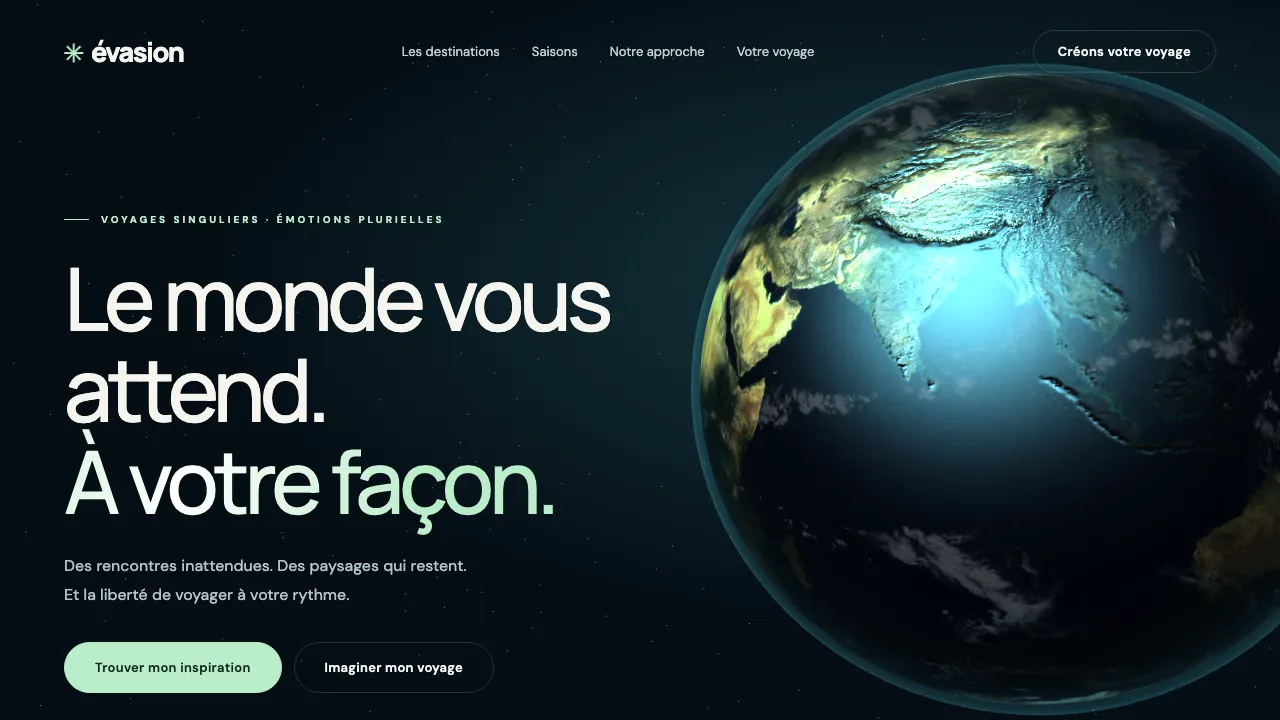
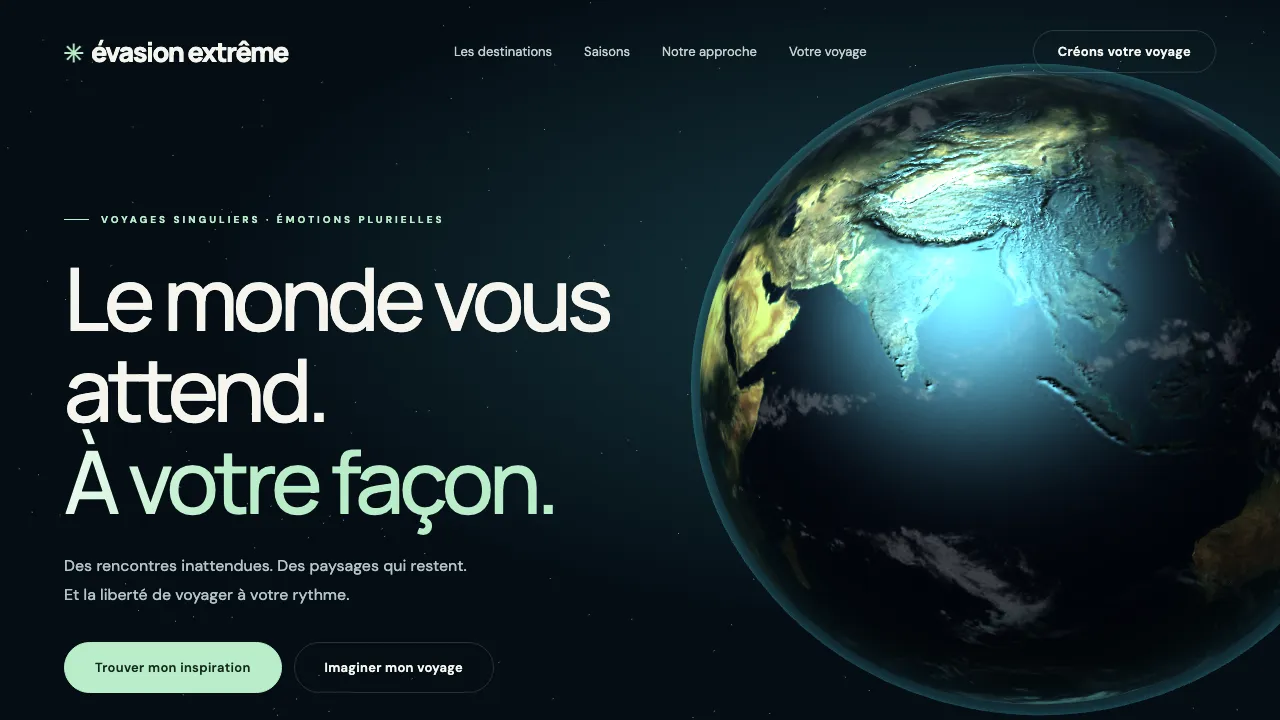
Projets : renommage d'Évasion en Évasion Extrême (page détail, carte, aperçus)

diff --git a/template/evasion.html b/template/evasion.html
@@ -6,8 +6,8 @@
   <link rel="icon" href="../assets/brand/favicon.svg" type="image/svg+xml">
   <link rel="icon" href="../assets/brand/favicon-32.png" sizes="32x32" type="image/png">
   <link rel="apple-touch-icon" href="../assets/brand/apple-touch-icon-180.png">
-  <title>Projet — Évasion — voyages sur mesure | Virtuos Studio</title>
-  <meta name="description" content="Étude de cas Évasion : site de voyages sur mesure avec planète 3D, destinations filtrables et carnet d’envies à télécharger. Projet de démonstration." />
+  <title>Projet — Évasion Extrême — voyages sur mesure | Virtuos Studio</title>
+  <meta name="description" content="Étude de cas Évasion Extrême : site de voyages sur mesure avec planète 3D, destinations filtrables et carnet d’envies à télécharger. Projet de démonstration." />
   <link rel="canonical" href="https://virtuos.life/template/evasion.html" />
   <link href="../assets/fonts/space-grotesk.css" rel="stylesheet">
   <link rel="stylesheet" href="../assets/vendor/lenis.css" />
@@ -19,7 +19,7 @@
     "itemListElement": [
       {"@type": "ListItem", "position": 1, "name": "Accueil", "item": "https://virtuos.life/"},
       {"@type": "ListItem", "position": 2, "name": "Projets", "item": "https://virtuos.life/projets.html"},
-      {"@type": "ListItem", "position": 3, "name": "Évasion — voyages sur mesure", "item": "https://virtuos.life/template/evasion.html"}
+      {"@type": "ListItem", "position": 3, "name": "Évasion Extrême — voyages sur mesure", "item": "https://virtuos.life/template/evasion.html"}
     ]
   }
   </script>
@@ -27,8 +27,8 @@
   {
     "@context": "https://schema.org",
     "@type": "CreativeWork",
-    "name": "Évasion — voyages sur mesure",
-    "description": "Étude de cas Évasion : site de voyages sur mesure avec planète 3D, destinations filtrables et carnet d’envies à télécharger. Projet de démonstration.",
+    "name": "Évasion Extrême — voyages sur mesure",
+    "description": "Étude de cas Évasion Extrême : site de voyages sur mesure avec planète 3D, destinations filtrables et carnet d’envies à télécharger. Projet de démonstration.",
     "url": "https://virtuos.life/template/evasion.html",
     "inLanguage": "fr",
     "creator": {
@@ -50,9 +50,9 @@
   <script src="../assets/js/promo.js"></script>
   <main class="section template-hero">
     <div class="container">
-      <div class="breadcrumbs"><a href="../">Accueil</a> / Projets / Évasion — voyages sur mesure</div>
+      <div class="breadcrumbs"><a href="../">Accueil</a> / Projets / Évasion Extrême — voyages sur mesure</div>
       <div class="eyebrow">Projet</div>
-      <h1 class="title">Évasion — voyages sur mesure</h1>
+      <h1 class="title">Évasion Extrême — voyages sur mesure</h1>
       <div class="divider" aria-hidden="true"></div>
       <p class="subtitle">Site de voyages sur mesure. Planète 3D, destinations à filtrer et carnet d’envies à télécharger. Projet de démonstration.</p>
       <div class="hero-cta" style="margin-top:16px">
@@ -64,7 +64,7 @@
         <span class="badge">Animations</span>
       </div>
       <div class="template-frame card">
-        <iframe loading="lazy" src="https://evasion-monde-voyage.netlify.app/" title="Évasion — voyages sur mesure"></iframe>
+        <iframe loading="lazy" src="https://evasion-monde-voyage.netlify.app/" title="Évasion Extrême — voyages sur mesure"></iframe>
       </div>
       
       <div class="card" style="margin-top:20px">
@@ -108,7 +108,7 @@
 
       <div class="card" style="margin-top:16px">
         <figure>
-          <img src="./evasion/evasion-monde-voyage-site-web.png" alt="Aperçu Évasion, site de voyages sur mesure avec planète 3D" loading="lazy" decoding="async" width="1280" height="720" style="border-radius:12px; border:1px solid var(--border); width:100%; height:auto" />
+          <img src="./evasion/evasion-monde-voyage-site-web.png" alt="Aperçu Évasion Extrême, site de voyages sur mesure avec planète 3D" loading="lazy" decoding="async" width="1280" height="720" style="border-radius:12px; border:1px solid var(--border); width:100%; height:auto" />
         </figure>
       </div>
       <div class="card" style="margin-top:16px">

diff --git a/projets.html b/projets.html
@@ -188,9 +188,9 @@
         </article>
         <article class="card project is-new">
           <div class="project-thumb"><span class="project-tag">Voyage · Sur mesure</span><span class="badge">Nouveau</span>
-            <picture><source srcset="./template/evasion/evasion-monde-voyage-site-web-640.webp 640w, ./template/evasion/evasion-monde-voyage-site-web-800.webp 800w, ./template/evasion/evasion-monde-voyage-site-web-1280.webp 1280w" sizes="(max-width: 640px) 92vw, (max-width: 1024px) 45vw, 400px" type="image/webp"><img src="./template/evasion/evasion-monde-voyage-site-web.png" alt="Aperçu Évasion, site de voyages sur mesure avec planète 3D" loading="lazy" decoding="async" width="640" height="360"></picture>
+            <picture><source srcset="./template/evasion/evasion-monde-voyage-site-web-640.webp 640w, ./template/evasion/evasion-monde-voyage-site-web-800.webp 800w, ./template/evasion/evasion-monde-voyage-site-web-1280.webp 1280w" sizes="(max-width: 640px) 92vw, (max-width: 1024px) 45vw, 400px" type="image/webp"><img src="./template/evasion/evasion-monde-voyage-site-web.png" alt="Aperçu Évasion Extrême, site de voyages sur mesure avec planète 3D" loading="lazy" decoding="async" width="640" height="360"></picture>
           </div>
-          <h3>Évasion — voyages sur mesure</h3>
+          <h3>Évasion Extrême — voyages sur mesure</h3>
           <p>Site de voyages avec planète 3D, destinations filtrables, saisons et carnet d'envies à télécharger. Projet de démonstration.</p>
           <div class="actions">
             <a class="btn btn-primary" href="https://evasion-monde-voyage.netlify.app/" target="_blank" rel="noopener">Voir le site</a>
